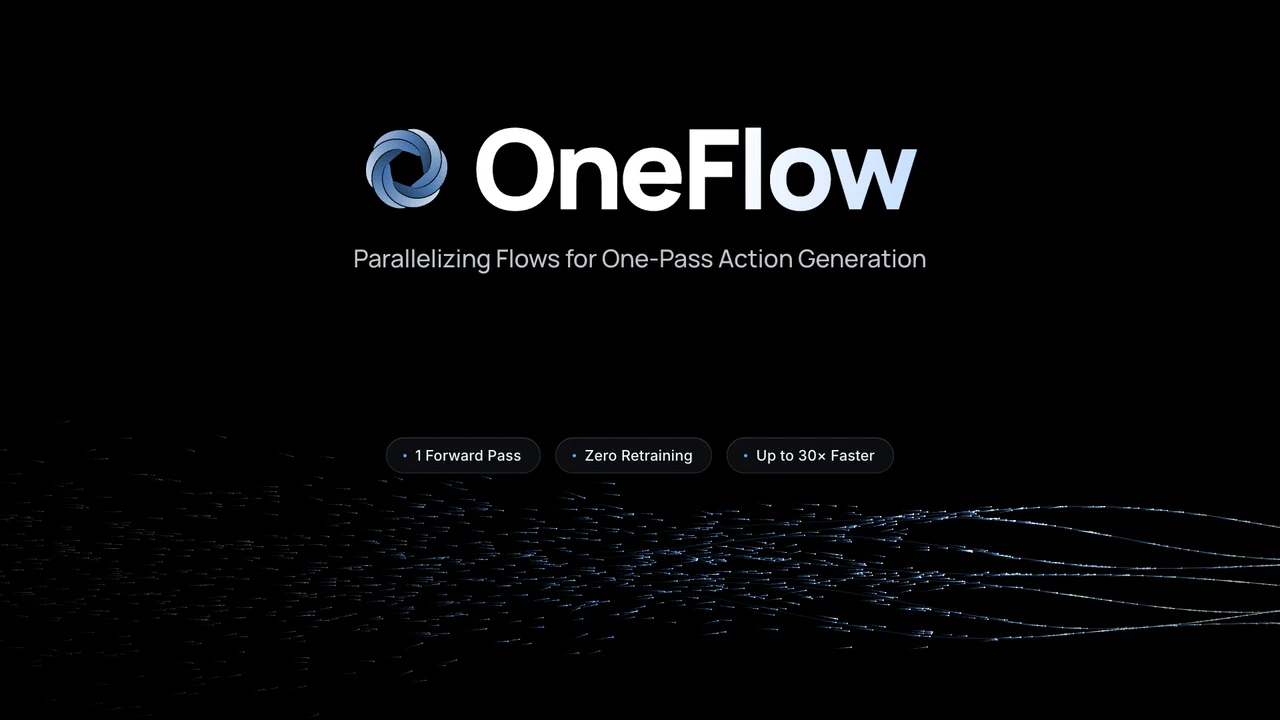
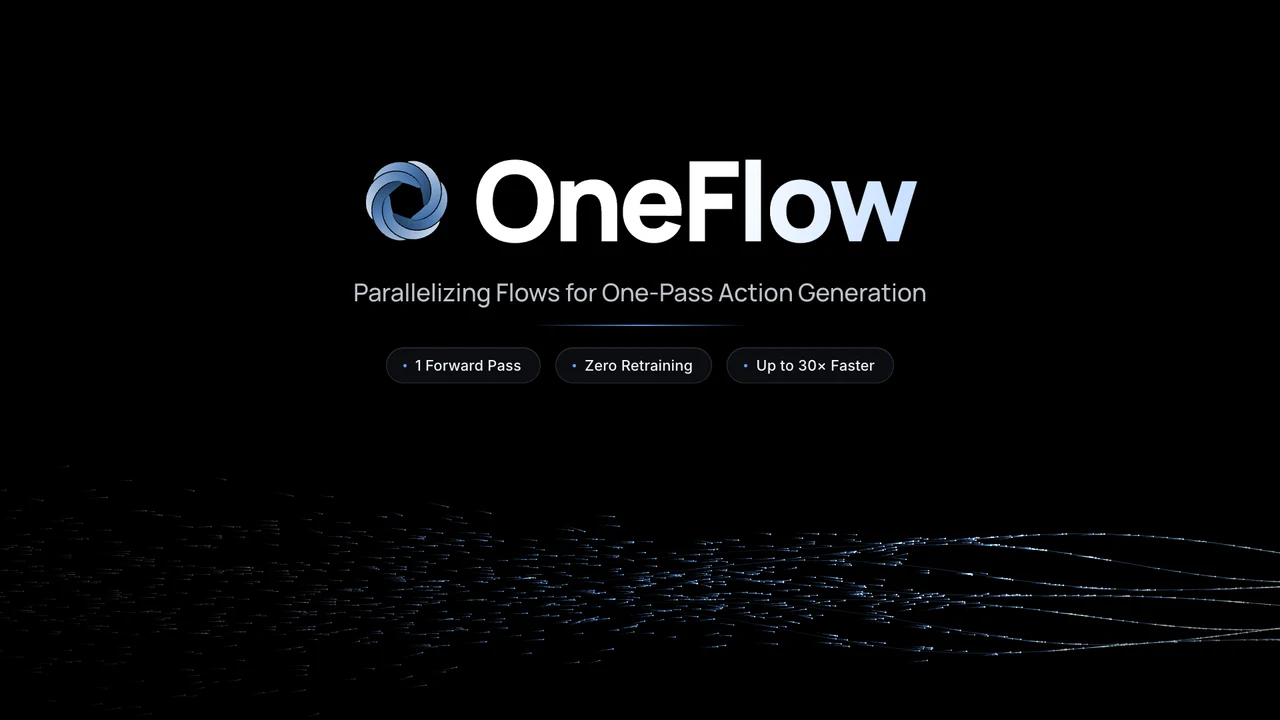
Update OneFlow overview poster and play button framing (paraflow@bc826326)

diff --git a/oneflow/styles.css b/oneflow/styles.css
@@ -1253,20 +1253,22 @@ p.table-note { margin: 12px 4px 0; font-size: 13px; line-height: 1.5; color: var
   z-index: 2;
   display: grid;
   place-items: center;
-  width: 76px;
-  height: 76px;
-  margin: -38px 0 0 -38px;
-  border: 1px solid rgba(255, 255, 255, 0.4);
+  width: 60px;
+  height: 60px;
+  margin: -30px 0 0 -30px;
+  border: 1px solid rgba(176, 210, 255, 0.44);
   border-radius: 50%;
-  background: rgba(255, 255, 255, 0.16);
+  background: rgba(14, 19, 29, 0.82);
+  box-shadow: inset 0 1px 0 rgba(255, 255, 255, 0.24), 0 8px 28px rgba(0, 0, 0, 0.58);
   -webkit-backdrop-filter: var(--blur);
   backdrop-filter: var(--blur);
-  color: #fff;
+  color: #f4f8ff;
   pointer-events: none;
-  transition: opacity 0.3s ease, transform 0.3s var(--ease);
+  transition: opacity 0.25s ease, transform 0.28s var(--ease), background-color 0.25s ease, border-color 0.25s ease, top 0s linear 0.3s;
 }
-.cinema-big svg { width: 28px; height: 28px; margin-left: 3px; }
-.cinema-frame:hover .cinema-big { transform: scale(1.06); }
+.cinema:not(.is-started) .cinema-big { top: 66%; }
+.cinema-big svg { width: 22px; height: 22px; margin-left: 3px; }
+.cinema-frame:hover .cinema-big { background: rgba(20, 30, 48, 0.9); border-color: rgba(140, 192, 255, 0.78); transform: scale(1.07); }
 .cinema[data-state="playing"] .cinema-big, .cinema.is-started[data-state="paused"] .cinema-big { opacity: 0; }
 .cinema.is-started[data-state="paused"] .cinema-frame:hover .cinema-big { opacity: 1; }
 .cinema-note { position: absolute; left: 50%; top: 50%; z-index: 3; transform: translate(-50%, -50%); margin: 0; padding: 10px 16px; border-radius: 999px; background: rgba(255, 255, 255, 0.14); color: #fff; font-size: 15px; white-space: nowrap; }
@@ -1278,8 +1280,8 @@ p.table-note { margin: 12px 4px 0; font-size: 13px; line-height: 1.5; color: var
 @media (max-width: 734px) {
   .cinema { margin-top: 40px; padding: 8px; }
   .cinema-frame { border-radius: 14px; }
-  .cinema-big { width: 60px; height: 60px; margin: -30px 0 0 -30px; }
-  .cinema-big svg { width: 22px; height: 22px; }
+  .cinema-big { width: 46px; height: 46px; margin: -23px 0 0 -23px; }
+  .cinema-big svg { width: 18px; height: 18px; margin-left: 2px; }
 }
 
 /* ---------- 7. Cite and footer ---------- */

diff --git a/oneflow/index.html b/oneflow/index.html
@@ -12,7 +12,7 @@
   <link rel="preload" as="font" type="font/woff2" href="assets/fonts/jetbrains-mono-latin-wght.woff2" crossorigin />
   <link rel="preload" as="font" type="font/woff2" href="assets/fonts/stix-two-text-latin-500-italic.woff2" crossorigin />
   <link rel="preload" as="image" href="assets/video/hero-reel.webp?v=20261128hd" fetchpriority="high" />
-  <link rel="stylesheet" href="styles.css?v=20261128j" />
+  <link rel="stylesheet" href="styles.css?v=20261128m" />
   <script>document.documentElement.classList.add('js');</script>
 </head>
 <body>
@@ -554,7 +554,7 @@
         </header>
         <figure class="cinema" id="cinema" data-state="paused" aria-label="OneFlow overview film">
           <div class="cinema-frame">
-            <video class="cinema-video" playsinline loop preload="none" disablepictureinpicture disableremoteplayback width="1920" height="1080" data-src="assets/video/overview.mp4?v=20261128l" data-poster="assets/video/overview-poster.webp?v=20261128i" aria-label="OneFlow overview film"></video>
+            <video class="cinema-video" playsinline loop preload="none" disablepictureinpicture disableremoteplayback width="1920" height="1080" data-src="assets/video/overview.mp4?v=20261128l" data-poster="assets/video/overview-poster.webp?v=20261128m" aria-label="OneFlow overview film"></video>
             <img class="cinema-poster" width="1280" height="720" alt="" aria-hidden="true" />
             <span class="cinema-big" aria-hidden="true"><svg viewBox="0 0 24 24"><path d="M8.5 5.8v12.4a.8.8 0 0 0 1.2.7l9.8-6.2a.8.8 0 0 0 0-1.4L9.7 5.1a.8.8 0 0 0-1.2.7Z" fill="currentColor"/></svg></span>
             <p class="cinema-note" hidden>The overview film could not be loaded.</p>
